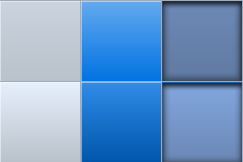
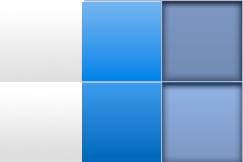
message

diff --git a/public/stylesheets/calendar.css b/public/stylesheets/calendar.css
@@ -1,19 +1,3 @@
-* {
-	/* old-style reset here :) */
-	border: 0px;
-	padding: 0px;
-}
-body {
-	font-family: Helvetica;
-	background: white;
-	text-align: center;
-	background: url(../img/body.png) repeat-x;
-}
-body h1 {
-	padding-top: 20px;
-	font-size: 26px;
-	color: #335;
-}
 table {
 	border-collapse: separate;
 	border: 1px solid #9DABCE;
@@ -26,7 +10,7 @@ td, th {
 	height: 81px;
 	text-align: center;
 	vertical-align: middle;
-	background: url(../img/cells.png);
+	background: url(../images/calendar/cells.png);
 	color: #444;
 	position: relative;
 }
@@ -47,7 +31,7 @@ td.date_has_event:hover {
 	background-position: 162px -81px;
 }
 td.padding {
-	background: url(../img/calpad.jpg);
+	background: url(../images/calendar/calpad.jpg);
 }
 td.padding_empty{
 
@@ -68,7 +52,7 @@ td.today:hover {
 	display: none;
 	z-index: 1000;
 	padding: 15px;
-	background: #E7ECF2 url(../img/popup.png) no-repeat;
+	background: #E7ECF2 url(../images/calendar/popup.png) no-repeat;
 	color: white;
 	border: 1px solid white;
 	font-size: 15px;

diff --git a/public/stylesheets/giveTOstyle.css b/public/stylesheets/giveTOstyle.css
@@ -106,7 +106,7 @@ input, textarea {
 label {
     vertical-align: top;    
 }
-
+/*
 table {
     font-family: inherit;
     border-collapse: collapse;  
@@ -116,7 +116,7 @@ table td {
     padding: 0px 10px 0px 10px;    
 
 }
-
+*/
 .submitButton {
     background-image: url('../images/submitButtonBlue.png'); 
     background-repeat: no-repeat;    
